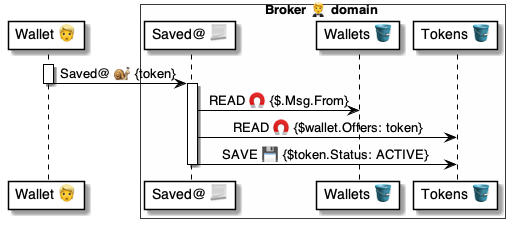
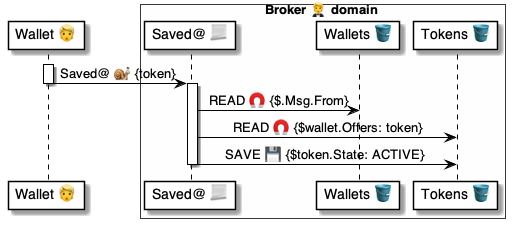
.

Changed region(s): [[0.435, 0.6447, 0.8388, 0.7061]]

diff --git a/4 ⚙ Solution/20 🧑🦰 UI/Brokers 🤵/🤵🪣 Broker tables/Prompts 🤔 table/🪣🔔 1 Inserted/🤵 OnPromptInserted 📃 handler.md b/4 ⚙ Solution/20 🧑🦰 UI/Brokers 🤵/🤵🪣 Broker tables/Prompts 🤔 table/🪣🔔 1 Inserted/🤵 OnPromptInserted 📃 handler.md
@@ -19,9 +19,24 @@
     .State: Emojied
     Emoji: $emoji
 ```
+Uses: [`RUN`](<../../../../../37 Scripts 📃/📃 Commands ⌘/⌘ for control ▶/RUN 🏃/🏃 RUN ⌘ cmd.md>) [`SAVE`](<../../../../../37 Scripts 📃/📃 Commands ⌘/⌘ for datasets 🪣/SAVE 💾/💾 SAVE ⌘ cmd.md>) 
 
 ```yaml
 📃 OnPromptEmoji:
+
+# Verify the Prompt
+- ASSERT|$Prompt:
+    AllOf: Format
+    Texts: Format, Emoji
+
+# Verify the Prompt's Chat
+- ASSERT|$Prompt.Chat:
+    Text: Emoji
+
+# Verify the Prompt's Chatter
+- ASSERT|$Prompt.Chatter:
+    AllOf: Role
+    Text: Role
 
 # Set the emoji
 - CASE|$Prompt.Format:
@@ -31,35 +46,35 @@
     FAILURE: RETURN|❌
 
     INFO: 
-        CASE|$Prompt.Role:
+        CASE|$Prompt.Chatter.Role:
             VAULT: RETURN|ⓘ
             $: RETURN|ℹ
 
     SUCCESS: 
-        CASE|$Prompt.Role:
+        CASE|$Prompt.Chatter.Role:
             VAULT: RETURN|☑
             $: RETURN|✅
 
     TEXT:
-        CASE|$Prompt.Role:
+        CASE|$Prompt.Chatter.Role:
             VAULT: RETURN|💭
             $: RETURN|💬
 
     $: 
         # Agents always ask with 🫥
-        - IF|$Prompt.Role.Is(VAULT):
+        - IF|$Prompt.Chatter.Role.Is(VAULT):
             RETURN|🫥
 
 # Default emoji
 - PUT|😃 >> $emoji
 
 # Override if in Chat
-- IF|$ChatEmoji:
-    PUT|$ChatEmoji >> $emoji
+- IF|$Prompt.Chat.Emoji:
+    PUT|$Prompt.Chat.Emoji >> $emoji
 
 # Override if in Prompt
-- IF|$PromptEmoji: 
-    PUT|$PromptEmoji >> $emoji
+- IF|$Prompt.Emoji: 
+    PUT|$Prompt.Emoji >> $emoji
 
 # Block special emojis
 - IF|$emoji.IsIn(⏳❌ⓘℹ☑✅😃🫥💬💭):
@@ -75,6 +90,6 @@
 
 Uses||
 |-|-
-| [Commands ⌘](<../../../../../35 💬 Chats/Scripts 📃/Command ⌘.md>) | [`CASE`](<../../../../../37 Scripts 📃/📃 Commands ⌘/⌘ for control ▶/CASE ⏯/⏯ CASE ⌘ cmd.md>) [`CALL`](<../../../../../37 Scripts 📃/📃 Commands ⌘/⌘ for holders 🧠/CALL 🧮/🧮 CALL ⌘ cmd.md>) [`IF`](<../../../../../37 Scripts 📃/📃 Commands ⌘/⌘ for control ▶/IF ⤵/⤵ IF ⌘ cmd.md>) [`RETURN`](<../../../../../37 Scripts 📃/📃 Commands ⌘/⌘ for control ▶/RETURN ⤴/⤴ RETURN ⌘ cmd.md>) 
+| [Commands ⌘](<../../../../../35 💬 Chats/Scripts 📃/Command ⌘.md>) | [`ASSERT`](<../../../../../37 Scripts 📃/📃 Commands ⌘/⌘ for holders 🧠/ASSERT 🚦/🚦 ASSERT ⌘ cmd.md>) [`CASE`](<../../../../../37 Scripts 📃/📃 Commands ⌘/⌘ for control ▶/CASE ⏯/⏯ CASE ⌘ cmd.md>) [`IF`](<../../../../../37 Scripts 📃/📃 Commands ⌘/⌘ for control ▶/IF ⤵/⤵ IF ⌘ cmd.md>) [`PUT`](<../../../../../37 Scripts 📃/📃 Commands ⌘/⌘ for holders 🧠/PUT ⬇/⬇ PUT ⌘ cmd.md>) [`RETURN`](<../../../../../37 Scripts 📃/📃 Commands ⌘/⌘ for control ▶/RETURN ⤴/⤴ RETURN ⌘ cmd.md>) 
 | [{Functions} 🐍](<../../../../../35 💬 Chats/Scripts 📃/Function 🐍.md>) | [`{.IsIn}`](<../../../../../37 Scripts 📃/📃 Holders 🧠/Any 📚 holders/IsIn ⓕ any.md>) [`{.Is}`](<../../../../../37 Scripts 📃/📃 Holders 🧠/Any 📚 holders/Is ⓕ any.md>)
 |

diff --git a/4 ⚙ Solution/20 🧑🦰 UI/Brokers 🤵/🤵🅰 Broker methods/Chats 💬 Prompt 🤗🐌🤵/🤵 Prompt 📃 handler.md b/4 ⚙ Solution/20 🧑🦰 UI/Brokers 🤵/🤵🅰 Broker methods/Chats 💬 Prompt 🤗🐌🤵/🤵 Prompt 📃 handler.md
@@ -3,10 +3,6 @@
 > Purpose
 * Implements the [`Prompt@Broker` 🅰 method](<🤵 Prompt 🐌 msg.md>)
 
-> Dependencies
-* Depends on the [`PromptEmoji` 📃 script](<🤵 Prompt 📃 emoji.md>)
-
-
 ## Script
 
 ```yaml
@@ -17,45 +13,36 @@
 
 # Assert the message
 - ASSERT|$.Msg:
-    AllOf: Chat, Emoji, Format, Hook
+    AllOf: Chat, Format, Hook
     UUIDs: Chat, Hook
     Texts: Emoji, Format
     Times: Expires
 
-# Get the Chat participant
+# Assert the Sender is a Chatter
 - READ >> $chatter:
     Set: Broker.Chatters
     Key: 
         Chat: $.Msg.Chat
         Domain: $.Msg.From
 
-# Get the Chat
-- PUT|$chatter.Chat >> $chat
+# Assert the Chat is active
+- ASSERT|$chatter.Chat:
+    .State: ACTIVE
 
-# Calculate the emoji
-- RUN|PromptEmoji >> $emoji:
-    Format: $.Msg.Format
-    PromptEmoji: $.Msg.Emoji
-    ChatEmoji: $chat.Emoji
+# Save the Prompt
+- SAVE|Broker.Prompts:
+    Chat: $.Msg.Chat
+    Hook: $.Msg.Hook
     Role: $chatter.Role
-
-# Forward to the notifier
-- SEND: 
-    Header:
-        To: $chat.Notifier
-        Subject: Prompt@Notifier    
-    Body:
-        Wallet: $chat.Wallet
-        Chat: $.Msg.Chat
-        Sender: $.Msg.From
-        Hook: $.Msg.Hook
-        Format: $.Msg.Format
-        Emoji: $emoji
+    Emoji: $.Msg.Emoji
+    Format: $.Msg.Format
+    Sender: $.Msg.From
+    Wallet: $chatter.Chat.Wallet
+    Expires: $.Msg.Expires
 ```
 
 Uses||
 |-|-
-| [Commands ⌘](<../../../../35 💬 Chats/Scripts 📃/Command ⌘.md>) | [`ASSERT`](<../../../../37 Scripts 📃/📃 Commands ⌘/⌘ for holders 🧠/ASSERT 🚦/🚦 ASSERT ⌘ cmd.md>) [`CALL`](<../../../../37 Scripts 📃/📃 Commands ⌘/⌘ for holders 🧠/CALL 🧮/🧮 CALL ⌘ cmd.md>) [`READ`](<../../../../37 Scripts 📃/📃 Commands ⌘/⌘ for datasets 🪣/READ 🧲/🧲 READ ⌘ cmd.md>) [`RUN`](<../../../../37 Scripts 📃/📃 Commands ⌘/⌘ for control ▶/RUN 🏃/🏃 RUN ⌘ cmd.md>) [`SEND`](<../../../../37 Scripts 📃/📃 Commands ⌘/⌘ for messages 📨/SEND 📬/📬 SEND ⌘ cmd.md>) [`VERIFY`](<../../../../37 Scripts 📃/📃 Commands ⌘/⌘ for messages 📨/VERIFY 🔐/🔐 VERIFY ⌘ cmd.md>)
+| [Commands ⌘](<../../../../35 💬 Chats/Scripts 📃/Command ⌘.md>) | [`ASSERT`](<../../../../37 Scripts 📃/📃 Commands ⌘/⌘ for holders 🧠/ASSERT 🚦/🚦 ASSERT ⌘ cmd.md>)  [`READ`](<../../../../37 Scripts 📃/📃 Commands ⌘/⌘ for datasets 🪣/READ 🧲/🧲 READ ⌘ cmd.md>)  [`VERIFY`](<../../../../37 Scripts 📃/📃 Commands ⌘/⌘ for messages 📨/VERIFY 🔐/🔐 VERIFY ⌘ cmd.md>)
 | [Datasets 🪣](<../../../../30 🧩 Data/Datasets 🪣/🪣 Dataset.md>) | [`Chatters`](<../../🤵🪣 Broker tables/Chatters 👥 table/🪣 Chatters/🤵 Broker.Chatters 🪣 table.md>) [`Chats`](<../../🤵🪣 Broker tables/Chats 💬 table/🪣 Chats/🤵 Broker.Chats 🪣 table.md>)
-| [Scripts 📃](<../../../../35 💬 Chats/Scripts 📃/Script 📃.md>) | [`PromptEmoji` 📃 script](<🤵 Prompt 📃 emoji.md>)
 |

diff --git a/4 ⚙ Solution/20 🧑🦰 UI/Brokers 🤵/🤵🪣 Broker tables/Tokens 🎫 table/🪣🔔 4 Accepted/🤵 OnTokenAccepted 📃 handler.md b/4 ⚙ Solution/20 🧑🦰 UI/Brokers 🤵/🤵🪣 Broker tables/Tokens 🎫 table/🪣🔔 4 Accepted/🤵 OnTokenAccepted 📃 handler.md
@@ -1,32 +1,10 @@
 # 🤵 OnTokenAccepted 📃 handler
 
-> Purpose
-
-* [Script 📃](<../../../../../35 💬 Chats/Scripts 📃/Script 📃.md>) that calls the [`Accepted@Issuer` 🅰 method](<../../../../../41 🎭 Domain Roles/Issuers 🎴/🎴🅰 Issuer methods/Accepted 🤵🐌🎴/🎴 Accepted 🐌 msg.md>)
-
-> Flow 
-
-* Triggered by the [`Raised@Itemizer` 🔔 event](<../../../../../45 🤲 Helper domains/Itemizers 🛢/🛢🔔 Itemizer events/🛢🔔 Raised.md>)
-
 
 ## Diagram
 
 ![alt text](<🤵 OnTokenAccepted ⚙ uml.png>)
 
-
-## How to call
-
-```yaml
-- RUN|OnTokenAccepted:
-    Item: 
-        ID: <token-uuid>
-        Wallet: <wallet-id>
-        Status: ACTIVE
-    New:
-        Status: ACTIVE
-    Old:
-        Status: OFFERED
-```
 
 ## Script
 
@@ -34,7 +12,7 @@
 📃 OnTokenAccepted:
 
 # Assert the inputs
-- ASSERT|$Item:
+- ASSERT|$Token:
     AllOf: ID, Issuer, Hook
     UUIDs: ID, Hook
     Texts: Issuer
@@ -42,16 +20,15 @@
 # Inform the Issuer
 - SEND:
     Header:
-        To: $Item.Issuer
+        To: $Token.Issuer
         Subject: Accepted@Issuer
     Body:
-        Hook: $Item.Hook  # Hook @ Issuer
-        Token: $Item.ID   # Token.ID @ Broker
+        Hook: $Token.Hook  # Hook @ Issuer
+        Token: $Token.ID   # Token.ID @ Broker
 ```
 
 |Uses||
 |-|-
-| [Commands ⌘](<../../../../../35 💬 Chats/Scripts 📃/Command ⌘.md>) | [`ASSERT`](<../../../../../37 Scripts 📃/📃 Commands ⌘/⌘ for holders 🧠/ASSERT 🚦/🚦 ASSERT ⌘ cmd.md>) [`READ`](<../../../../../37 Scripts 📃/📃 Commands ⌘/⌘ for datasets 🪣/READ 🧲/🧲 READ ⌘ cmd.md>) [`SEND`](<../../../../../37 Scripts 📃/📃 Commands ⌘/⌘ for messages 📨/SEND 📬/📬 SEND ⌘ cmd.md>)
-| [Datasets 🪣](<../../../../../30 🧩 Data/Datasets 🪣/🪣 Dataset.md>) | [`Broker.Wallets` 🪣 table](<../../Wallets 🧑🦰 table/🪣 Wallets/🤵 Broker.Wallets 🪣 table.md>)
+| [Commands ⌘](<../../../../../35 💬 Chats/Scripts 📃/Command ⌘.md>) | [`ASSERT`](<../../../../../37 Scripts 📃/📃 Commands ⌘/⌘ for holders 🧠/ASSERT 🚦/🚦 ASSERT ⌘ cmd.md>) [`SEND`](<../../../../../37 Scripts 📃/📃 Commands ⌘/⌘ for messages 📨/SEND 📬/📬 SEND ⌘ cmd.md>)
 | [Messages 📨](<../../../../../30 🧩 Data/Messages 📨/📨 Message/📨 Message.md>) | [`Accepted@Issuer` 🅰 method](<../../../../../41 🎭 Domain Roles/Issuers 🎴/🎴🅰 Issuer methods/Accepted 🤵🐌🎴/🎴 Accepted 🐌 msg.md>)
 |

diff --git a/4 ⚙ Solution/20 🧑🦰 UI/Brokers 🤵/🤵🪣 Broker tables/Prompts 🤔 table/🪣🔔 2 Emojied/🤵 OnPromptEmojied 📃 handler.md b/4 ⚙ Solution/20 🧑🦰 UI/Brokers 🤵/🤵🪣 Broker tables/Prompts 🤔 table/🪣🔔 2 Emojied/🤵 OnPromptEmojied 📃 handler.md
@@ -1,0 +1,45 @@
+# 🤵 OnPromptEmojied 📃 handler
+
+
+## Script
+
+```yaml
+📃 OnPromptEmojied:
+
+# Assert the message
+- ASSERT|$Prompt:
+    AllOf: Hook, Chat
+    UUIDs: Hook, Chat
+    Texts: Format, Emoji
+
+# Verify the Prompt's Chat
+- ASSERT|$Prompt.Chat:
+    AllOf: Notifier, Wallet
+    Texts: Notifier
+    UUIDs: Wallet
+
+# Verify the Prompt's Chatter
+- ASSERT|$Prompt.Chatter:
+    AllOf: Domain
+    Texts: Domain
+
+# Forward to the notifier
+- SEND: 
+    Header:
+        To: $Prompt.Chat.Notifier
+        Subject: Prompt@Notifier    
+    Body:
+        Chat: $Prompt.Chat
+        Hook: $Prompt.Hook
+        Emoji: $Prompt.Emoji
+        Format: $Prompt.Format
+        Wallet: $Prompt.Chat.Wallet
+        Sender: $Prompt.Chatter.Domain
+```
+
+Uses||
+|-|-
+| [Commands ⌘](<../../../../35 💬 Chats/Scripts 📃/Command ⌘.md>) | [`ASSERT`](<../../../../37 Scripts 📃/📃 Commands ⌘/⌘ for holders 🧠/ASSERT 🚦/🚦 ASSERT ⌘ cmd.md>) [`CALL`](<../../../../37 Scripts 📃/📃 Commands ⌘/⌘ for holders 🧠/CALL 🧮/🧮 CALL ⌘ cmd.md>) [`READ`](<../../../../37 Scripts 📃/📃 Commands ⌘/⌘ for datasets 🪣/READ 🧲/🧲 READ ⌘ cmd.md>) [`RUN`](<../../../../37 Scripts 📃/📃 Commands ⌘/⌘ for control ▶/RUN 🏃/🏃 RUN ⌘ cmd.md>) [`SEND`](<../../../../37 Scripts 📃/📃 Commands ⌘/⌘ for messages 📨/SEND 📬/📬 SEND ⌘ cmd.md>) [`VERIFY`](<../../../../37 Scripts 📃/📃 Commands ⌘/⌘ for messages 📨/VERIFY 🔐/🔐 VERIFY ⌘ cmd.md>)
+| [Datasets 🪣](<../../../../30 🧩 Data/Datasets 🪣/🪣 Dataset.md>) | [`Chatters`](<../../🤵🪣 Broker tables/Chatters 👥 table/🪣 Chatters/🤵 Broker.Chatters 🪣 table.md>) [`Chats`](<../../🤵🪣 Broker tables/Chats 💬 table/🪣 Chats/🤵 Broker.Chats 🪣 table.md>)
+| [Scripts 📃](<../../../../35 💬 Chats/Scripts 📃/Script 📃.md>) | [`PromptEmoji` 📃 script](<🤵 Prompt 📃 emoji.md>)
+|

diff --git a/4 ⚙ Solution/30 🧩 Data/Datasets 🪣/🪣🛢 Itemized datasets/Item 🛢 Handlers.md b/4 ⚙ Solution/30 🧩 Data/Datasets 🪣/🪣🛢 Itemized datasets/Item 🛢 Handlers.md
@@ -66,8 +66,8 @@
             Events: UPDATED
             Assert: 
                 Item.Expires.IsAbove(.Now):
-                New.Status: NEW_STATUS
-                Old.Status: OLD_STATUS
+                New.State: NEW_STATE
+                Old.State: OLD_STATE
     ```
     Uses: [`.IsAbove`](<../../../37 Scripts 📃/📃 Holders 🧠/Any 📚 holders/IsAbove ⓕ any.md>) [`.Now`](<../../../37 Scripts 📃/📃 Holders 🧠/Time 📚 holders/Now ⓕ.md>)
 

diff --git a/4 ⚙ Solution/20 🧑🦰 UI/Brokers 🤵/🤵🪣 Broker tables/Tokens 🎫 table/🪣 Tokens/🤵 Broker.Tokens 🪣 table.md b/4 ⚙ Solution/20 🧑🦰 UI/Brokers 🤵/🤵🪣 Broker tables/Tokens 🎫 table/🪣 Tokens/🤵 Broker.Tokens 🪣 table.md
@@ -50,8 +50,8 @@ Handlers:
     OnTokenAccepted: 
         Events: UPDATED
         Assert: 
-            New.Status: ACTIVE
-            Old.Status: OFFERED
+            New.State: ACTIVE
+            Old.State: OFFERED
 ```
 
 Uses: [`.Now`](<../../../../../37 Scripts 📃/📃 Holders 🧠/Time 📚 holders/Now ⓕ.md>) [`.IsBetween`](<../../../../../37 Scripts 📃/📃 Holders 🧠/Any 📚 holders/IsBetween ⓕ any.md>) 

diff --git a/4 ⚙ Solution/30 🧩 Data/Datasets 🪣/🪣🔣 Dataset types/Itemized 🛢 dataset.md b/4 ⚙ Solution/30 🧩 Data/Datasets 🪣/🪣🔣 Dataset types/Itemized 🛢 dataset.md
@@ -110,12 +110,12 @@
             Events: EXPIRED, PURGED
         OnChange: 
             Events: ALTERED
-        OnSomeStatus:
+        OnSomeState:
             Events: UPDATED
             Assert: 
                 Item.Expires.IsAbove(.Now):
-                New.Status: NEW_STATUS
-                Old.Status: OLD_STATUS
+                New.State: NEW_STATE
+                Old.State: OLD_STATE
     ```
     
     Uses||

diff --git a/4 ⚙ Solution/20 🧑🦰 UI/Brokers 🤵/🤵🪣 Broker tables/Chats 💬 table/🪣 Chats/🤵 Broker.Chats 🪣 table.md b/4 ⚙ Solution/20 🧑🦰 UI/Brokers 🤵/🤵🪣 Broker tables/Chats 💬 table/🪣 Chats/🤵 Broker.Chats 🪣 table.md
@@ -41,12 +41,12 @@ Handlers:
     OnChatTerminated:       # On Pop@Broker + Terminate
         Events: UPDATED     # >> call Terminated@Host
         Assert: 
-            New.Status: TERMINATED
+            New.State: TERMINATED
 
     OnChatWrapped:          # On Wrap@Broker
         Events: UPDATED     # >> call @Advertise
         Assert:
-            New.Status: WRAPPED
+            New.State: WRAPPED
 ```
 
 ## Links

diff --git a/4 ⚙ Solution/20 🧑🦰 UI/Brokers 🤵/🤵🅰 Broker methods/Chats 💬 Presented 🔎🐌🤵/🤵 Presented 📃 handler.md b/4 ⚙ Solution/20 🧑🦰 UI/Brokers 🤵/🤵🅰 Broker methods/Chats 💬 Presented 🔎🐌🤵/🤵 Presented 📃 handler.md
@@ -35,7 +35,7 @@
 
 # Process the Chat state
 - SAVE|$chat:
-    .Status: PRESENTED
+    .State: PRESENTED
 ```
 
 Uses||

diff --git a/4 ⚙ Solution/20 🧑🦰 UI/Brokers 🤵/🤵🅰 Broker methods/Chats 💬 Opened 🧑🦰🐌🤵/🤵 Opened 📃 handler.md b/4 ⚙ Solution/20 🧑🦰 UI/Brokers 🤵/🤵🅰 Broker methods/Chats 💬 Opened 🧑🦰🐌🤵/🤵 Opened 📃 handler.md
@@ -27,7 +27,7 @@
 
 # Process the Chat state
 - SAVE|$chat:
-    .Status: OPENED
+    .State: OPENED
 ```
 
 Uses||
